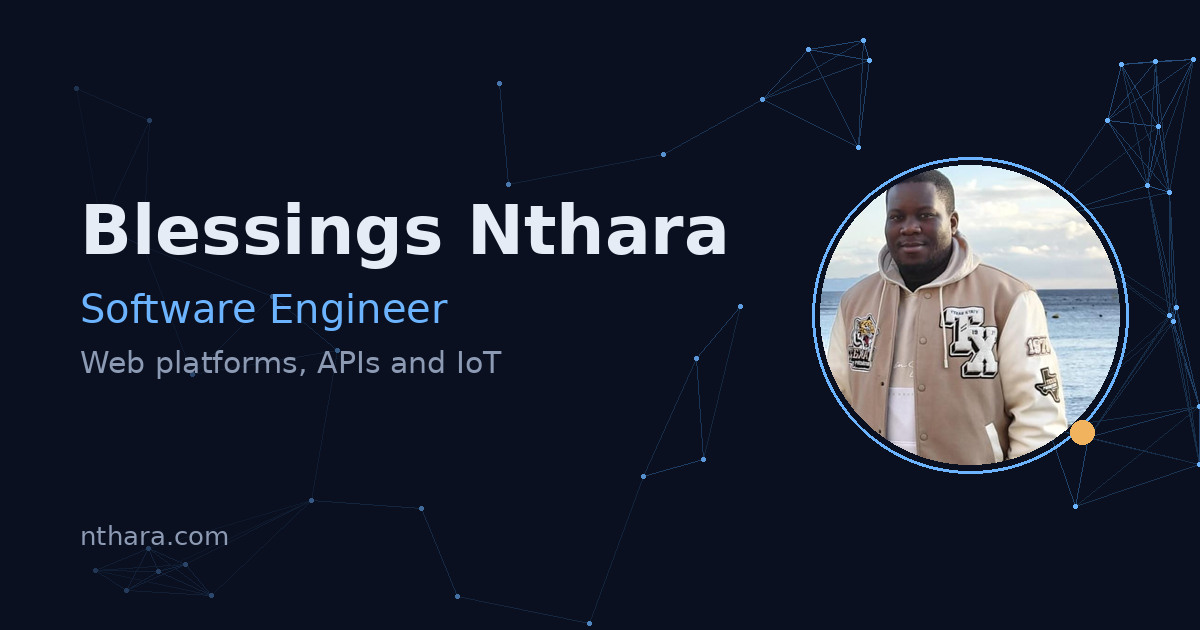
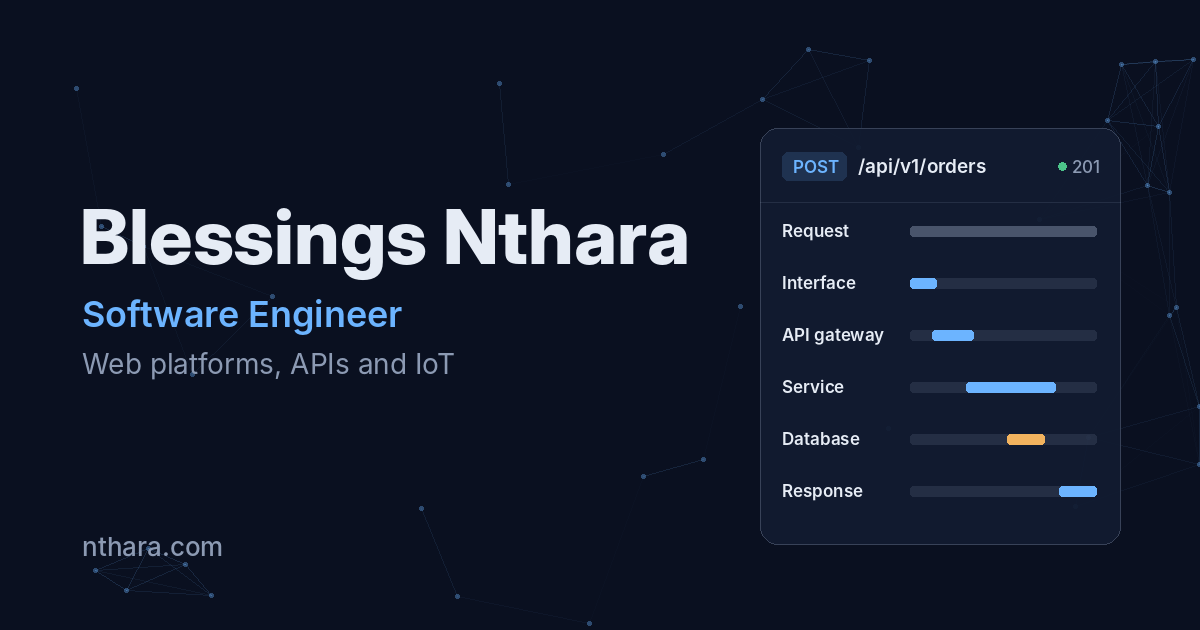
Add files via upload

diff --git a/css/main.css b/css/main.css
@@ -17,6 +17,7 @@
   --on-signal: #06101f;
   --ember: #f2b35e;
   --ember-glow: rgba(242, 179, 94, 0.45);
+  --ok: #4cc38a;
   --shadow: 0 24px 60px -30px rgba(0, 0, 0, 0.75);
   --mesh-line: 108, 180, 255;
   --mesh-alpha: 0.22;
@@ -57,6 +58,7 @@
   --on-signal: #ffffff;
   --ember: #b8690f;
   --ember-glow: rgba(184, 105, 15, 0.35);
+  --ok: #1f8a57;
   --shadow: 0 24px 50px -30px rgba(15, 26, 44, 0.35);
   --mesh-line: 29, 95, 209;
   --mesh-alpha: 0.16;
@@ -333,7 +335,7 @@ ol { list-style: none; }
 
 .hero-grid {
   display: grid;
-  grid-template-columns: minmax(0, 1.35fr) minmax(0, 0.9fr);
+  grid-template-columns: minmax(0, 1.2fr) minmax(0, 1fr);
   align-items: center;
   gap: clamp(2rem, 5vw, 5rem);
 }
@@ -359,12 +361,7 @@ ol { list-style: none; }
   border-radius: 50%;
   background: var(--ember);
   box-shadow: 0 0 0 0 var(--ember-glow);
-  animation: led-pulse 2.6s ease-out infinite;
   flex: none;
-}
-@keyframes led-pulse {
-  0% { box-shadow: 0 0 0 0 var(--ember-glow); }
-  70%, 100% { box-shadow: 0 0 0 9px transparent; }
 }
 
 .hero-title {
@@ -397,45 +394,89 @@ ol { list-style: none; }
 }
 .hero-social a:hover { color: var(--text); background: var(--signal-soft); }
 
-.portrait { position: relative; justify-self: end; width: min(100%, 380px); }
-.portrait-frame {
-  position: relative;
-  aspect-ratio: 4 / 5;
-  border-radius: 200px 200px var(--radius-lg) var(--radius-lg);
-  overflow: hidden;
+/* Hero request trace */
+.trace {
+  justify-self: end;
+  width: min(100%, 470px);
+  border-radius: var(--radius-lg);
   border: 1px solid var(--line-strong);
-  box-shadow: var(--shadow);
-  background: var(--surface);
-}
-.portrait-frame img { width: 100%; height: 100%; object-fit: cover; object-position: 50% 20%; }
-.portrait::before {
-  content: "";
-  position: absolute;
-  inset: -14px;
-  border-radius: 214px 214px 30px 30px;
-  border: 1px dashed var(--line-strong);
-  pointer-events: none;
-}
-.portrait-tag {
-  position: absolute;
-  left: -1.25rem;
-  bottom: 1.75rem;
-  display: inline-flex;
-  align-items: center;
-  gap: 0.55rem;
-  padding: 0.55rem 0.95rem;
-  border-radius: var(--radius-sm);
   background: var(--glass);
-  border: 1px solid var(--line-strong);
-  -webkit-backdrop-filter: blur(12px);
-  backdrop-filter: blur(12px);
-  font-size: 0.88rem;
-  font-weight: 500;
+  -webkit-backdrop-filter: blur(14px);
+  backdrop-filter: blur(14px);
   box-shadow: var(--shadow);
+  overflow: hidden;
+  font-variant-numeric: tabular-nums;
 }
+.trace-head {
+  display: flex;
+  align-items: center;
+  justify-content: space-between;
+  gap: 1rem;
+  padding: 1.1rem 1.35rem;
+  border-bottom: 1px solid var(--line);
+}
+.trace-req { font-weight: 600; font-size: 0.95rem; overflow-wrap: anywhere; }
+.trace-method {
+  display: inline-block;
+  margin-right: 0.45rem;
+  padding: 0.1rem 0.5rem;
+  border-radius: 6px;
+  background: var(--signal-soft);
+  color: var(--signal);
+  font-size: 0.8rem;
+  font-weight: 600;
+}
+.trace-status { display: inline-flex; align-items: center; gap: 0.45rem; color: var(--muted); font-size: 0.88rem; white-space: nowrap; }
+.trace-ok { width: 8px; height: 8px; border-radius: 50%; background: var(--ok); }
+
+.trace-spans { padding: 0.6rem 1.35rem 0.9rem; }
+.trace-spans li {
+  display: grid;
+  grid-template-columns: 8.25rem minmax(0, 1fr) 3.6rem;
+  align-items: center;
+  gap: 0.9rem;
+  padding: 0.6rem 0;
+}
+.trace-spans li + li { border-top: 1px solid var(--line); }
+.span-name { font-size: 0.92rem; font-weight: 600; line-height: 1.25; }
+.span-name small { display: block; font-size: 0.8rem; font-weight: 400; color: var(--muted); }
+.span-track {
+  position: relative;
+  height: 10px;
+  border-radius: 3px;
+  background: var(--line);
+}
+.span-bar {
+  position: absolute;
+  top: 0;
+  bottom: 0;
+  left: calc(var(--start) * 1%);
+  width: calc(var(--len) * 1%);
+  border-radius: 3px;
+  background: var(--signal);
+  transform-origin: left center;
+}
+.span-root .span-bar { background: var(--line-strong); }
+.span-key .span-bar { background: var(--ember); }
+.span-key .span-name { color: var(--text); }
+.span-ms { text-align: right; color: var(--muted); font-size: 0.85rem; }
+
+.trace-foot {
+  display: flex;
+  justify-content: space-between;
+  align-items: baseline;
+  gap: 1rem;
+  padding: 0.95rem 1.35rem 1.1rem;
+  border-top: 1px solid var(--line);
+  background: var(--signal-soft);
+  color: var(--muted);
+  font-size: 0.85rem;
+  line-height: 1.45;
+}
+.trace-where { color: var(--text); font-weight: 600; white-space: nowrap; }
 
 /* Page-load sequence (one orchestrated moment) */
-.js .hero-copy > *, .js .portrait {
+.js .hero-copy > *, .js .trace {
   opacity: 0;
   transform: translateY(14px);
   animation: rise 0.9s var(--ease) forwards;
@@ -445,7 +486,9 @@ ol { list-style: none; }
 .js .hero-copy > :nth-child(3) { animation-delay: 0.27s; }
 .js .hero-copy > :nth-child(4) { animation-delay: 0.38s; }
 .js .hero-copy > :nth-child(5) { animation-delay: 0.48s; }
-.js .portrait { animation-delay: 0.25s; animation-duration: 1.2s; }
+.js .trace { animation-delay: 0.2s; }
+.js .span-bar { transform: scaleX(0); animation: grow 0.7s var(--ease) forwards; animation-delay: calc(0.55s + var(--start) * 0.012s); }
+@keyframes grow { to { transform: scaleX(1); } }
 @keyframes rise { to { opacity: 1; transform: none; } }
 
 /* ==========================================================================
@@ -698,9 +741,7 @@ ol { list-style: none; }
 @media (max-width: 860px) {
   .hero { min-height: auto; padding-top: calc(var(--header-h) + 2.5rem + env(safe-area-inset-top, 0px)); }
   .hero-grid { grid-template-columns: 1fr; }
-  .portrait { order: -1; justify-self: start; width: 210px; }
-  .portrait::before { inset: -9px; }
-  .portrait-tag { left: auto; right: -1.5rem; bottom: 1rem; font-size: 0.8rem; padding: 0.45rem 0.75rem; }
+  .trace { justify-self: stretch; width: 100%; max-width: 560px; }
   .work-grid { grid-template-columns: 1fr; }
   .work-feature { grid-template-columns: 1fr; }
   .contact-panel { grid-template-columns: 1fr; }
@@ -721,6 +762,9 @@ ol { list-style: none; }
 
 @media (max-width: 480px) {
   .brand-name { display: none; }
+  .trace-head, .trace-spans, .trace-foot { padding-left: 1rem; padding-right: 1rem; }
+  .trace-spans li { grid-template-columns: 6.6rem minmax(0, 1fr) 3.1rem; gap: 0.65rem; }
+  .trace-foot { flex-direction: column; gap: 0.35rem; }
   .hero-actions .btn { flex: 1 1 100%; }
   .email-row .btn-large { flex: 1; min-width: 0; font-size: 0.95rem; --btn-pad: 0.95rem 1rem; }
 }
@@ -728,5 +772,5 @@ ol { list-style: none; }
 @media (prefers-reduced-motion: reduce) {
   html { scroll-behavior: auto; }
   *, *::before, *::after { animation-duration: 0.01ms !important; animation-iteration-count: 1 !important; transition-duration: 0.01ms !important; }
-  .js .hero-copy > *, .js .portrait, .js .reveal { opacity: 1; transform: none; }
+  .js .hero-copy > *, .js .trace, .js .reveal, .js .span-bar { opacity: 1; transform: none; }
 }

diff --git a/index.html b/index.html
@@ -19,7 +19,7 @@
   <meta property="og:image" content="https://www.nthara.com/img/og-image.png" />
   <meta property="og:image:width" content="1200" />
   <meta property="og:image:height" content="630" />
-  <meta property="og:image:alt" content="Blessings Nthara, Software Engineer" />
+  <meta property="og:image:alt" content="Blessings Nthara, Software Engineer: web platforms, APIs and IoT" />
   <meta property="profile:first_name" content="Blessings" />
   <meta property="profile:last_name" content="Nthara" />
   <meta name="twitter:card" content="summary_large_image" />
@@ -46,7 +46,6 @@
   <link rel="preconnect" href="https://fonts.googleapis.com" />
   <link rel="preconnect" href="https://fonts.gstatic.com" crossorigin />
   <link rel="stylesheet" href="https://fonts.googleapis.com/css2?family=Bricolage+Grotesque:opsz,wght@12..96,500..800&family=Geist:wght@400..600&display=swap" />
-  <link rel="preload" as="image" href="img/profile/blessings-nthara-640.webp" type="image/webp" />
   <link rel="stylesheet" href="css/reset.css" />
   <link rel="stylesheet" href="css/main.css" />
 
@@ -57,7 +56,6 @@
     "name": "Blessings Nthara",
     "jobTitle": "Software Engineer",
     "url": "https://www.nthara.com/",
-    "image": "https://www.nthara.com/img/profile/blessings-nthara-640.jpg",
     "email": "mailto:blessings@nthara.com",
     "worksFor": { "@type": "Organization", "name": "BlueNet S.r.l." },
     "alumniOf": [
@@ -141,14 +139,47 @@
           </ul>
         </div>
 
-        <figure class="portrait">
-          <div class="portrait-frame">
-            <picture>
-              <source type="image/webp" srcset="img/profile/blessings-nthara-320.webp 320w, img/profile/blessings-nthara-640.webp 640w" sizes="(max-width: 860px) 240px, 380px" />
-              <img src="img/profile/blessings-nthara-640.jpg" srcset="img/profile/blessings-nthara-320.jpg 320w, img/profile/blessings-nthara-640.jpg 640w" sizes="(max-width: 860px) 240px, 380px" width="640" height="640" alt="Portrait of Blessings Nthara by the sea" fetchpriority="high" />
-            </picture>
+        <figure class="trace" aria-labelledby="trace-caption">
+          <div class="trace-head">
+            <p class="trace-req"><span class="trace-method">POST</span> /api/v1/orders</p>
+            <p class="trace-status"><span class="trace-ok" aria-hidden="true"></span>201 Created</p>
           </div>
-          <figcaption class="portrait-tag"><span class="led" aria-hidden="true"></span>Campania, Italy</figcaption>
+          <ol class="trace-spans">
+            <li style="--start:0;--len:100" class="span-root">
+              <span class="span-name">Request<small>Docker container</small></span>
+              <span class="span-track"><span class="span-bar"></span></span>
+              <span class="span-ms">184 ms</span>
+            </li>
+            <li style="--start:0;--len:14">
+              <span class="span-name">Interface<small>React</small></span>
+              <span class="span-track"><span class="span-bar"></span></span>
+              <span class="span-ms">26 ms</span>
+            </li>
+            <li style="--start:12;--len:22">
+              <span class="span-name">API gateway<small>Node.js</small></span>
+              <span class="span-track"><span class="span-bar"></span></span>
+              <span class="span-ms">41 ms</span>
+            </li>
+            <li style="--start:30;--len:48">
+              <span class="span-name">Service<small>Laravel</small></span>
+              <span class="span-track"><span class="span-bar"></span></span>
+              <span class="span-ms">88 ms</span>
+            </li>
+            <li style="--start:52;--len:20" class="span-key">
+              <span class="span-name">Database write<small>MySQL</small></span>
+              <span class="span-track"><span class="span-bar"></span></span>
+              <span class="span-ms">37 ms</span>
+            </li>
+            <li style="--start:80;--len:20">
+              <span class="span-name">Response<small>OpenAPI contract</small></span>
+              <span class="span-track"><span class="span-bar"></span></span>
+              <span class="span-ms">36 ms</span>
+            </li>
+          </ol>
+          <figcaption class="trace-foot" id="trace-caption">
+            <span>One request, end to end: the layers I design, build and run.</span>
+            <span class="trace-where">Campania, Italy</span>
+          </figcaption>
         </figure>
       </div>
     </section>
@@ -294,7 +325,7 @@
               <h3>nthara.com</h3>
               <p>
                 This site. A dependency-free static portfolio: semantic HTML, a token-based light and dark theme,
-                a canvas animation that pauses when off screen or when reduced motion is on, and structured data for search.
+                a request-trace hero, a canvas animation that pauses when off screen or when reduced motion is on, and structured data for search.
               </p>
               <ul class="chips chips-quiet"><li>HTML</li><li>CSS</li><li>JavaScript</li><li>Canvas</li><li>GitHub Pages</li></ul>
               <div class="work-links">

diff --git a/README.md b/README.md
@@ -9,7 +9,7 @@ A dependency-free static site (HTML, CSS, vanilla JS) served by GitHub Pages.
 - `index.html` — all content and SEO metadata (Open Graph, JSON-LD)
 - `css/main.css` — design tokens (dark default, light theme), layout and responsive rules
 - `js/main.js` — theme toggle, mobile menu, scroll-spy, reveal-on-scroll, hero mesh canvas, copy email
-- `img/` — optimised portrait (WebP + JPEG), favicon, social preview image
+- `img/` — favicon, social preview image
 
 ## Editing content
 
